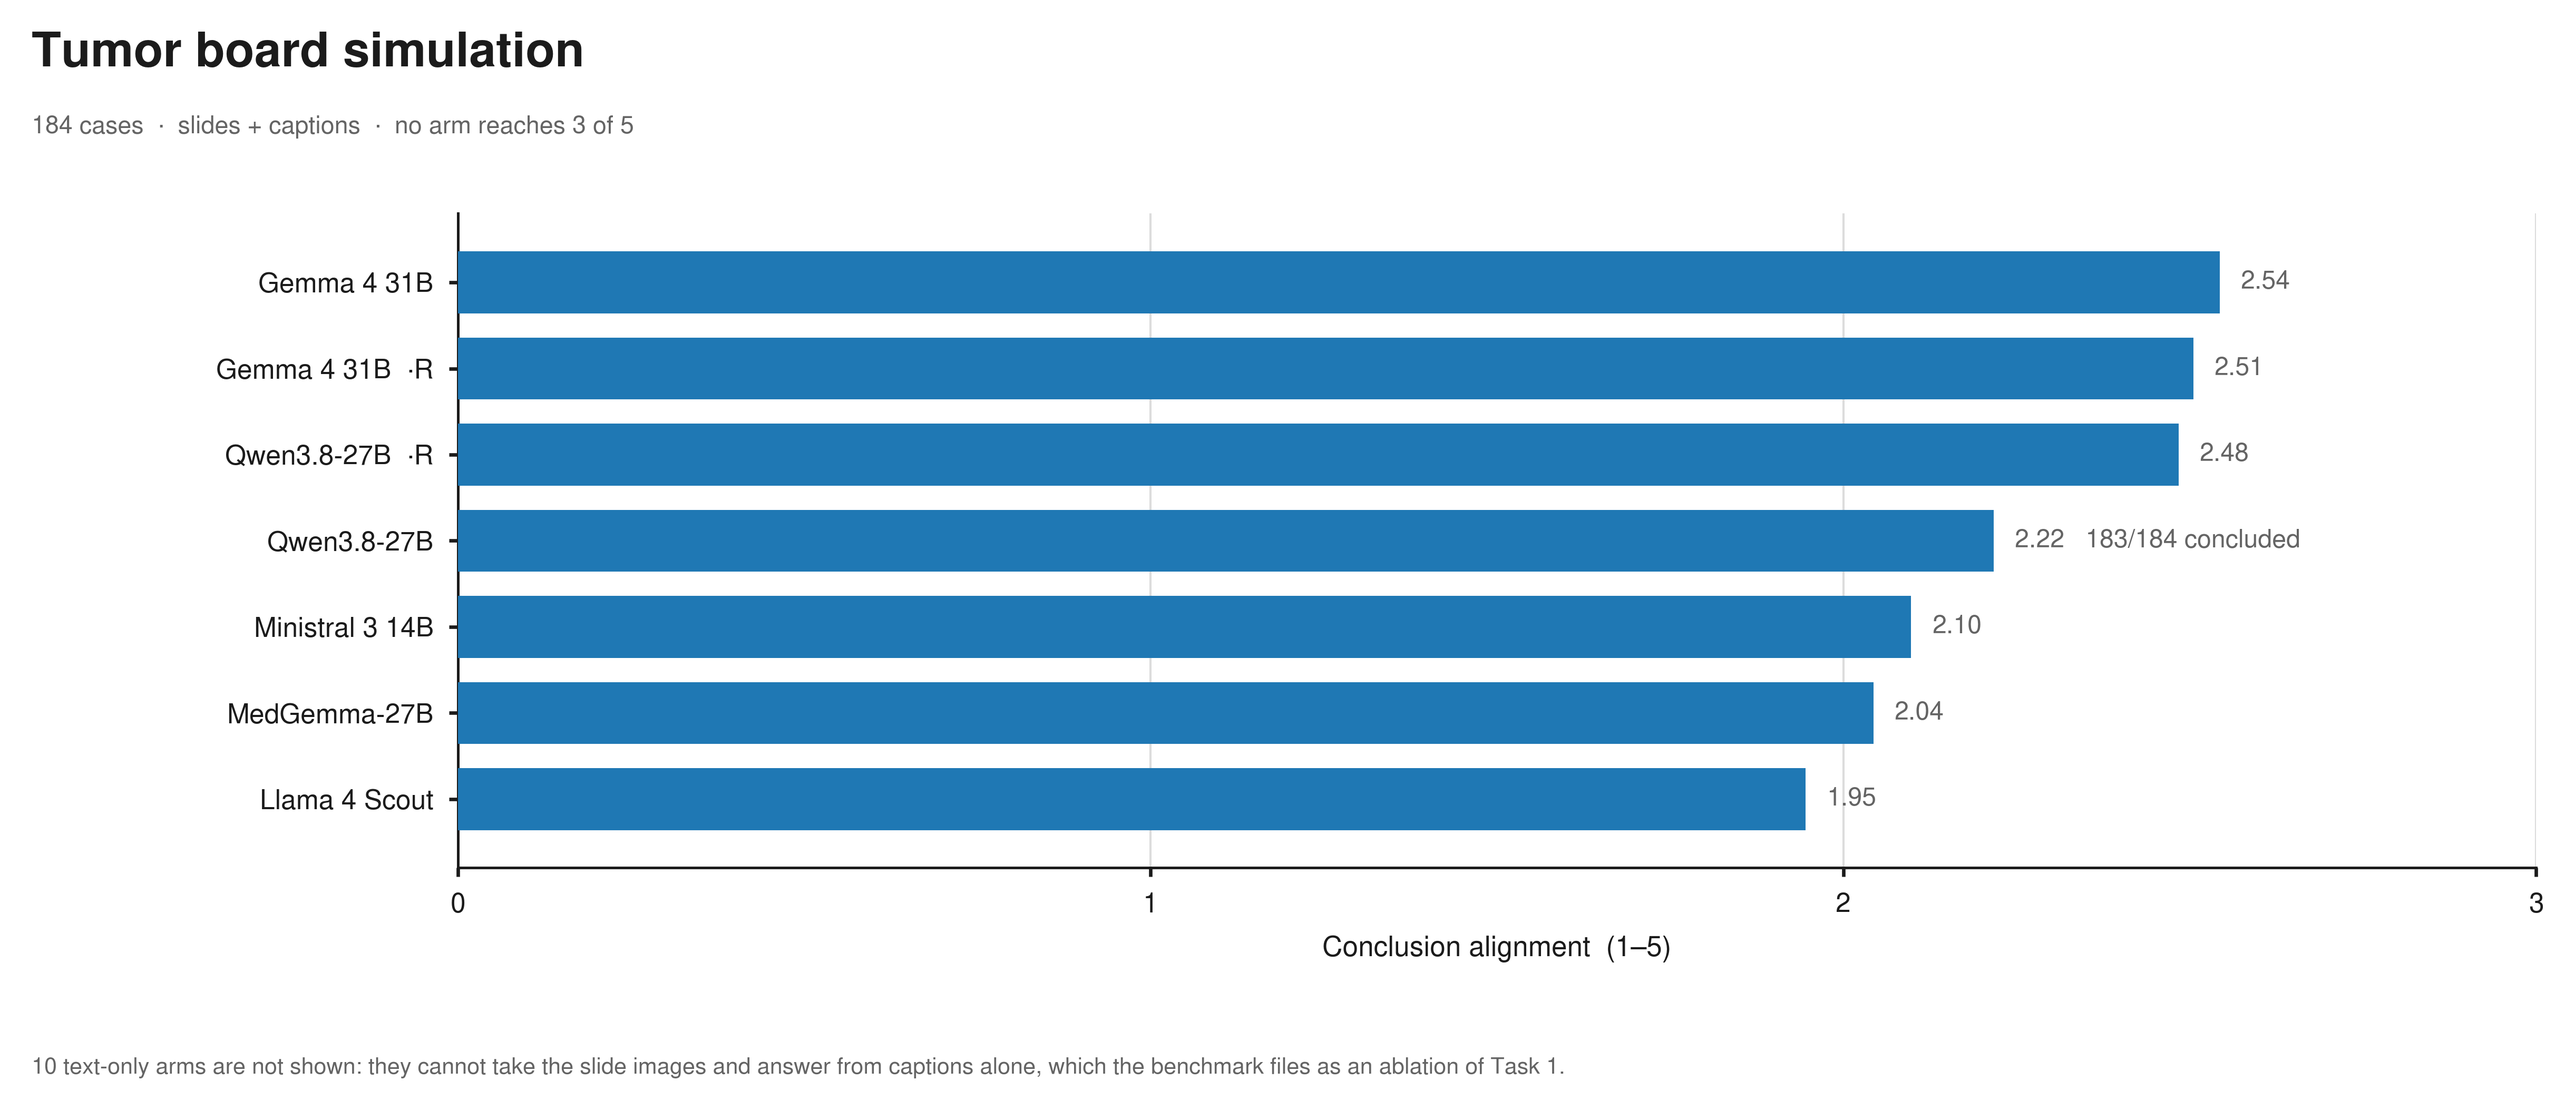
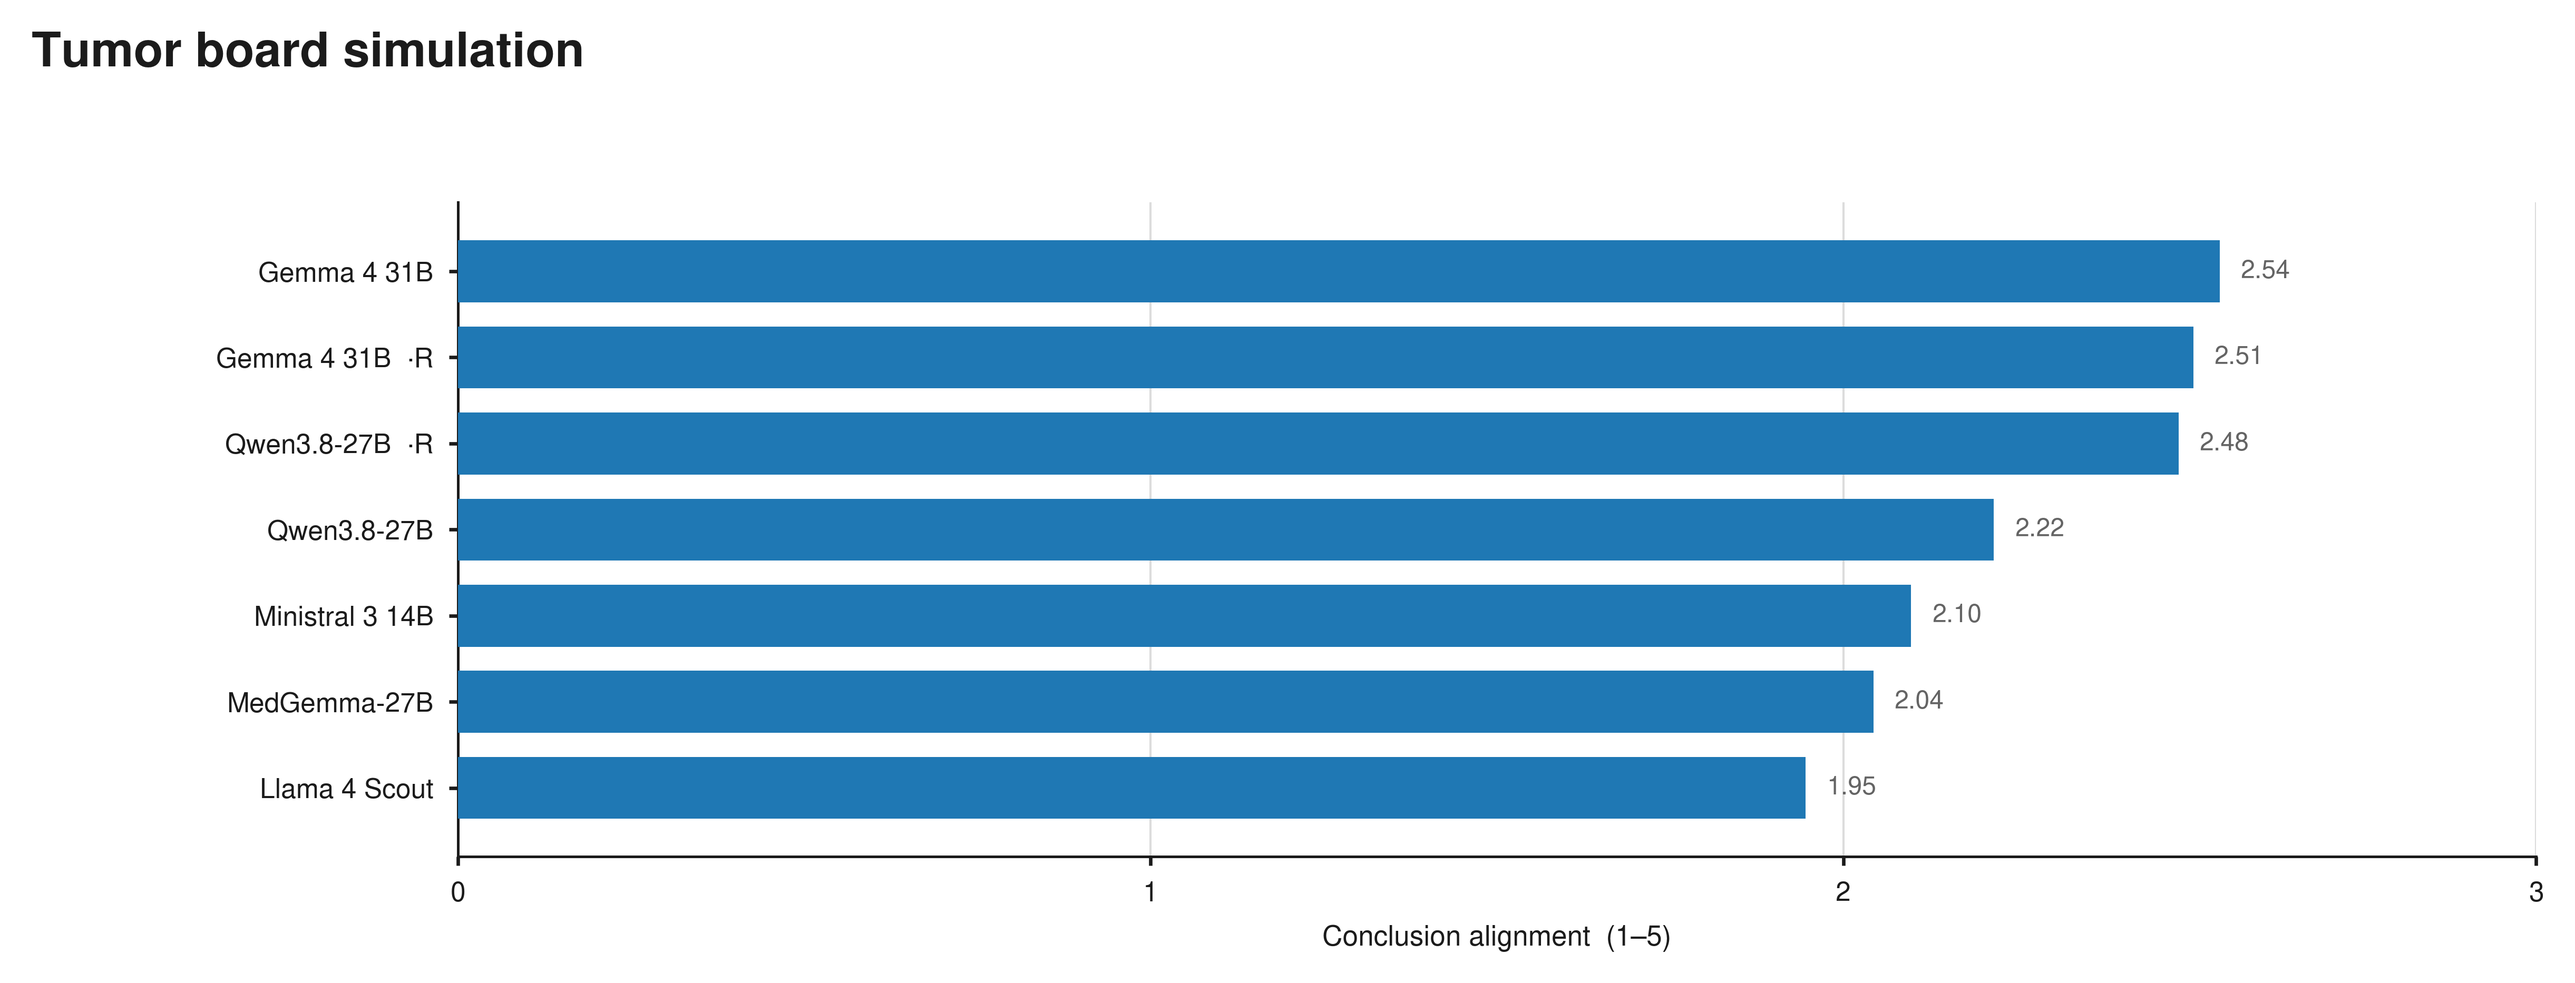
Strip Figure 4a to title, bars and axis
Removes the subtitle, the footnote about the excluded arms, and the per-bar coverage
note. The panel is now the ranking and nothing else.

All three of those facts are load-bearing, so they move to the provenance rather than
disappearing: the scale and the ten excluded text-only arms are in the caption,
panel_a_incomplete_coverage records that qwen3_8_27b concluded 183 of 184 cases, and
panel_a_uncaptioned says plainly that the figure states none of it and the LaTeX
caption has to. Without that note, a reader takes 2.22 for a score over 184 cases when
one of them entered at the rubric floor of 1 for never being concluded.

diff --git a/scripts/paper/figure4_task1_results.py b/scripts/paper/figure4_task1_results.py
@@ -235,8 +235,7 @@ def panel_a(d: dict, out_dir: Path, stem: str) -> list[Path]:
     ticks, labels = [], []
     for y, a in enumerate(group):
         ax.barh(y, a["score"], height=0.72, color=MM_C, zorder=3)
-        note = "" if a["scored"] == a["test"] else f"   {a['scored']}/{a['test']} concluded"
-        ax.text(a["score"] + 0.03, y, f"{a['score']:.2f}{note}", va="center", ha="left",
+        ax.text(a["score"] + 0.03, y, f"{a['score']:.2f}", va="center", ha="left",
                 fontsize=FS_VALUE, color=MUTED, zorder=4)
         ticks.append(y); labels.append(a["label"])
 
@@ -252,15 +251,7 @@ def panel_a(d: dict, out_dir: Path, stem: str) -> list[Path]:
         ax.spines[sp].set_linewidth(0.6)
 
     fig.suptitle("Tumor board simulation", fontsize=FS_TITLE, fontweight="bold",
-                 x=0.012, y=0.982, ha="left")
-    fig.text(0.012, 0.905,
-             f"{d['n_cases']} cases  \u00b7  slides + captions  \u00b7  no arm reaches 3 of 5",
-             fontsize=FS_NOTE, color=MUTED, ha="left", va="top")
-    fig.text(0.012, 0.022,
-             f"{len(dropped)} text-only arms are not shown: they cannot take the slide "
-             f"images and answer from captions alone, which the benchmark files as an "
-             f"ablation of Task 1.",
-             fontsize=FS_NOTE - 0.4, color=MUTED, ha="left", va="bottom")
+                 x=0.012, y=0.972, ha="left")
     return save(fig, out_dir, stem)
 
 
@@ -364,6 +355,15 @@ def main() -> int:
                                "not an active aggregate source and drops difference_rates; "
                                "it moves every arm down 0.07-0.24 and reorders some",
         },
+        "panel_a_uncaptioned": (
+            "fig4a carries no subtitle, footnote or per-bar coverage note. Everything "
+            "it no longer says is here and must go in the LaTeX caption: the scale, the "
+            "ten excluded text-only arms, and the arms that did not conclude every case."
+        ),
+        "panel_a_incomplete_coverage": {
+            a["key"]: f"{a['scored']}/{a['test']} concluded"
+            for a in d["arms"] if a["condition"] == "multimodal"
+            and a["scored"] != a["test"]},
         "caption": (
             f"Tumor board simulation. Each arm generates a multi-specialist discussion and a "
             f"treatment conclusion from the case summary and its slides; the conclusion is "
